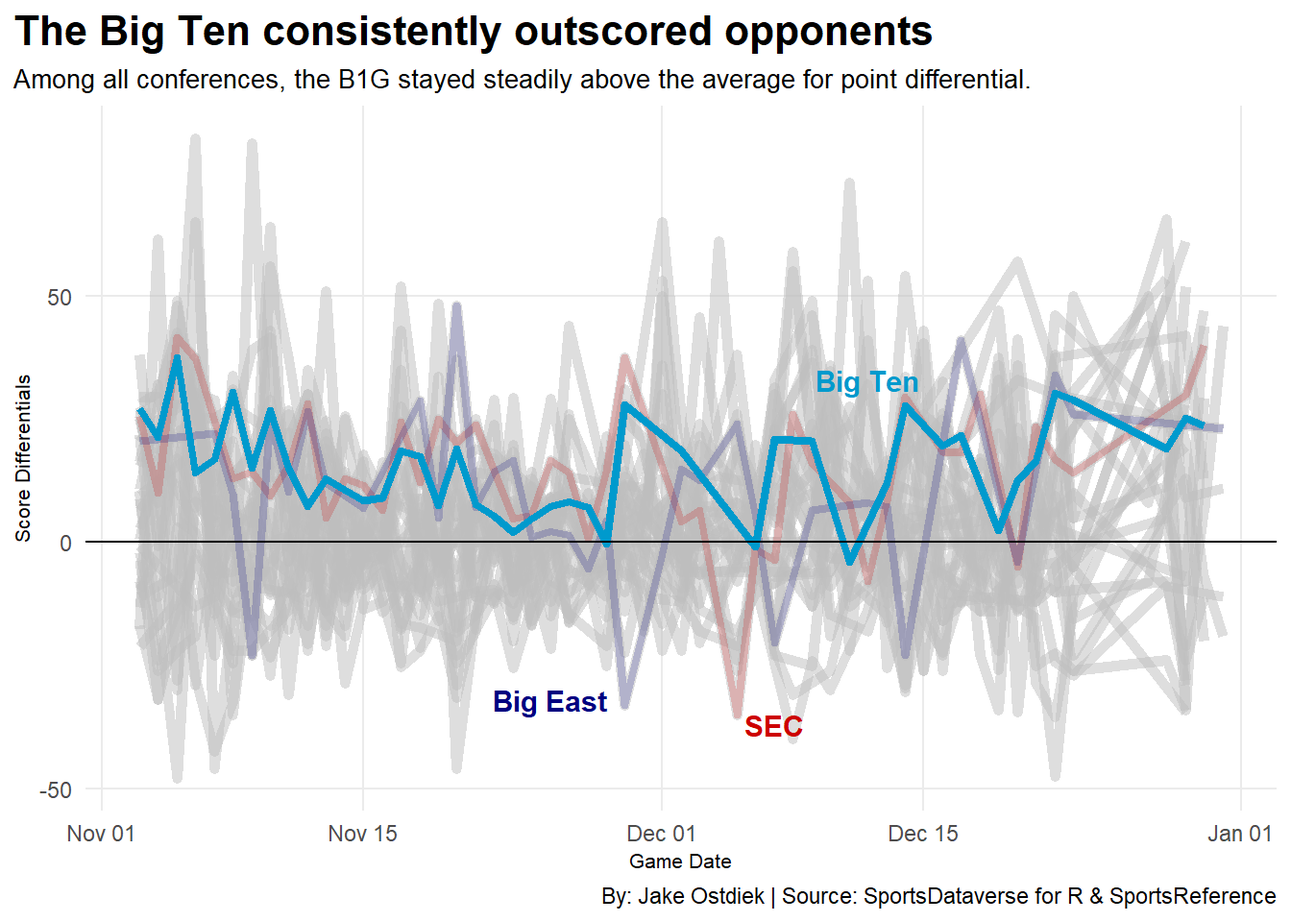
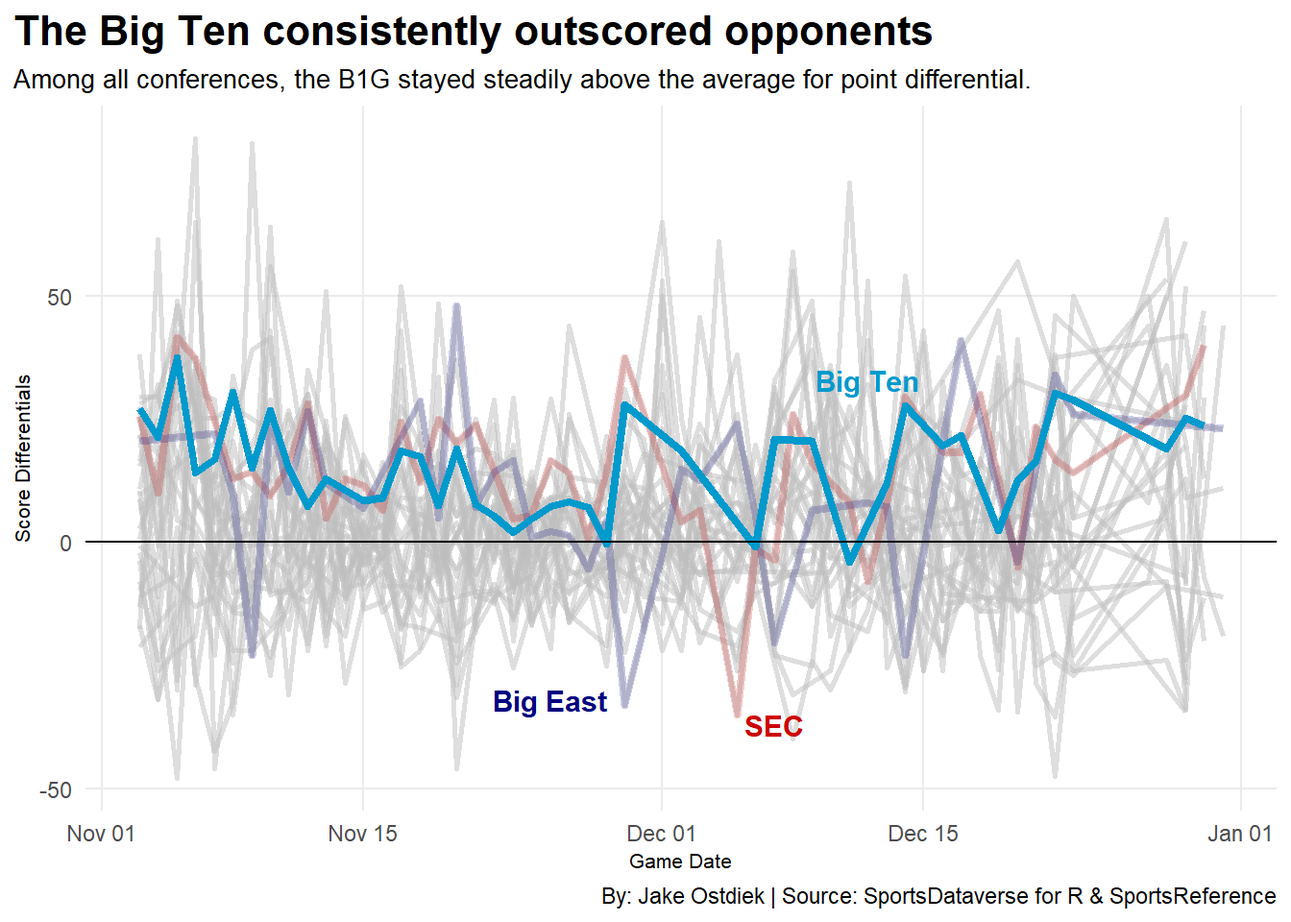
Finishing touches
Added description to chart 2

Changed region(s): [[0.0938, 0.1562, 0.9688, 0.8438]]

diff --git a/posts/big-ten-basketball-success-2026/index.html b/posts/big-ten-basketball-success-2026/index.html
@@ -9,7 +9,7 @@
 <meta name="author" content="Jake Ostdiek">
 <meta name="dcterms.date" content="2026-04-10">
 
-<title>2026 B1G Basketball Sets a Standard – Sports Stats from the mind of Jake Ostdiek</title>
+<title>2026 Big Ten Basketball Was More than Elite – Sports Stats from the mind of Jake Ostdiek</title>
 <style>
 /* Default styles provided by pandoc.
 ** See https://pandoc.org/MANUAL.html#variables-for-html for config info.
@@ -320,7 +320,7 @@ pre > code.sourceCode > span > a:first-child::before { text-decoration: underlin
 <header id="title-block-header" class="quarto-title-block default page-columns page-full">
   <div class="quarto-title-banner page-columns page-full">
     <div class="quarto-title column-body">
-      <h1 class="title">2026 B1G Basketball Sets a Standard</h1>
+      <h1 class="title">2026 Big Ten Basketball Was More than Elite</h1>
                                 <div class="quarto-categories">
                 <div class="quarto-category">ncaa</div>
                 <div class="quarto-category">basketball</div>
@@ -362,8 +362,8 @@ pre > code.sourceCode > span > a:first-child::before { text-decoration: underlin
 
 
 
-<p>Every March the same debate dominates the college sports scene, which conference is truly the best? The Big 12 consistently has a gauntlet of a regular season, and the SEC prides itself on having top tier athletes, but these narritives don’t win championships. When you take away the loud, often misleading, voices and take a look at the numbers from the 2025-2026 season, reality shows its true colors. The Big Ten didn’t just participate in this historic season, they dominated it.</p>
-<p>The B1G set a completely new standard this year, proving they were better than the SEC, the Big 12, and everyone else contending for the title.</p>
+<p>Every March the same debate dominates the college sports scene, which conference is truly the best? The Big 12 consistently has a gauntlet of a regular season, and the SEC prides itself on having top tier athletes, but these narratives don’t win championships. When you take away the loud, often misleading, voices and take a look at the numbers from the 2025-2026 season, reality shows its true colors. The Big Ten didn’t just participate in this historic season, they dominated it.</p>
+<p>The Big Ten set a completely new standard this year, proving they were better than the SEC, the Big 12, and everyone else contending for the title.</p>
 <p>The Non-Conference Start: Winning by Margins</p>
 <div class="cell">
 <details class="code-fold">
@@ -430,7 +430,7 @@ pre > code.sourceCode > span > a:first-child::before { text-decoration: underlin
 <span id="cb1-60"><a href="#cb1-60" aria-hidden="true" tabindex="-1"></a>    <span class="fu">aes</span>(<span class="at">x =</span> date_of_game, <span class="at">y =</span> avg_score_diff, <span class="at">group =</span> Conf),</span>
 <span id="cb1-61"><a href="#cb1-61" aria-hidden="true" tabindex="-1"></a>    <span class="at">color =</span> <span class="st">"grey"</span>,</span>
 <span id="cb1-62"><a href="#cb1-62" aria-hidden="true" tabindex="-1"></a>    <span class="at">alpha =</span> <span class="fl">0.5</span>,</span>
-<span id="cb1-63"><a href="#cb1-63" aria-hidden="true" tabindex="-1"></a>    <span class="at">linewidth =</span> <span class="dv">2</span>) <span class="sc">+</span></span>
+<span id="cb1-63"><a href="#cb1-63" aria-hidden="true" tabindex="-1"></a>    <span class="at">linewidth =</span> <span class="dv">1</span>) <span class="sc">+</span></span>
 <span id="cb1-64"><a href="#cb1-64" aria-hidden="true" tabindex="-1"></a>  <span class="fu">geom_line</span>(</span>
 <span id="cb1-65"><a href="#cb1-65" aria-hidden="true" tabindex="-1"></a>    <span class="at">data =</span> chart1_data_sec,</span>
 <span id="cb1-66"><a href="#cb1-66" aria-hidden="true" tabindex="-1"></a>    <span class="fu">aes</span>(<span class="at">x =</span> date_of_game, <span class="at">y =</span> avg_score_diff, <span class="at">group =</span> Conf),</span>
@@ -484,7 +484,7 @@ pre > code.sourceCode > span > a:first-child::before { text-decoration: underlin
 </div>
 <p>To find the true strength of a conference, you have to first look at the non-conference competition that starts off every season. As soon as January hits, conference rivals go at it, dragging down overall conference metrics. But in the non-conference slate? That is where you see what each conference is really made of.</p>
 <p>When we look at all games played before January 1st, 2026 (Average start date for conference games), the Big Ten teases its dominance.</p>
-<p>The data reveals a consistent trend - The Big Ten wasn’t just winning games, they were dismantling defenses and locking down offenses. Looking at the average scoring differentials, the B1G separated itself from the pack early. While other conferences hovered near the baseline of “just okay”, the Big Ten consistently was outscoring their opponents by significant margins. This established a level of dominance before conference play was even a worry.</p>
+<p>The data reveals a consistent trend - The Big Ten wasn’t just winning games, they were dismantling defenses and locking down offenses. Looking at the average scoring differentials, the Big Ten separated itself from the pack early. While other conferences hovered near the baseline of “just okay”, the Big Ten consistently was outscoring their opponents by significant margins. This established a level of dominance before conference play was even a worry.</p>
 <p>The Test of Resilience: Strength of Schedule</p>
 <div class="cell">
 <details class="code-fold">
@@ -531,44 +531,51 @@ pre > code.sourceCode > span > a:first-child::before { text-decoration: underlin
 <span id="cb2-40"><a href="#cb2-40" aria-hidden="true" tabindex="-1"></a>    <span class="at">data =</span> chart2_data_sec,</span>
 <span id="cb2-41"><a href="#cb2-41" aria-hidden="true" tabindex="-1"></a>    <span class="fu">aes</span>(<span class="at">x =</span> avg_conf_sos, <span class="at">y =</span> <span class="fu">reorder</span>(Conf, avg_conf_sos), <span class="at">size =</span> num_teams),</span>
 <span id="cb2-42"><a href="#cb2-42" aria-hidden="true" tabindex="-1"></a>    <span class="at">color =</span> <span class="st">"red3"</span>,</span>
-<span id="cb2-43"><a href="#cb2-43" aria-hidden="true" tabindex="-1"></a>    <span class="at">alpha =</span> <span class="fl">0.8</span>) <span class="sc">+</span></span>
+<span id="cb2-43"><a href="#cb2-43" aria-hidden="true" tabindex="-1"></a>    <span class="at">alpha =</span> <span class="fl">0.3</span>) <span class="sc">+</span></span>
 <span id="cb2-44"><a href="#cb2-44" aria-hidden="true" tabindex="-1"></a>  <span class="fu">geom_point</span>(</span>
 <span id="cb2-45"><a href="#cb2-45" aria-hidden="true" tabindex="-1"></a>    <span class="at">data =</span> chart2_data_bigeast,</span>
 <span id="cb2-46"><a href="#cb2-46" aria-hidden="true" tabindex="-1"></a>    <span class="fu">aes</span>(<span class="at">x =</span> avg_conf_sos, <span class="at">y =</span> <span class="fu">reorder</span>(Conf, avg_conf_sos), <span class="at">size =</span> num_teams),</span>
 <span id="cb2-47"><a href="#cb2-47" aria-hidden="true" tabindex="-1"></a>    <span class="at">color =</span> <span class="st">"navy"</span>,</span>
-<span id="cb2-48"><a href="#cb2-48" aria-hidden="true" tabindex="-1"></a>    <span class="at">alpha =</span> <span class="fl">0.8</span>) <span class="sc">+</span></span>
+<span id="cb2-48"><a href="#cb2-48" aria-hidden="true" tabindex="-1"></a>    <span class="at">alpha =</span> <span class="fl">0.3</span>) <span class="sc">+</span></span>
 <span id="cb2-49"><a href="#cb2-49" aria-hidden="true" tabindex="-1"></a>  <span class="fu">geom_point</span>(</span>
-<span id="cb2-50"><a href="#cb2-50" aria-hidden="true" tabindex="-1"></a>    <span class="at">data=</span>chart2_data_bigten,</span>
+<span id="cb2-50"><a href="#cb2-50" aria-hidden="true" tabindex="-1"></a>    <span class="at">data =</span> chart2_data_bigten,</span>
 <span id="cb2-51"><a href="#cb2-51" aria-hidden="true" tabindex="-1"></a>    <span class="fu">aes</span>(<span class="at">x =</span> avg_conf_sos, <span class="at">y =</span> <span class="fu">reorder</span>(Conf, avg_conf_sos), <span class="at">size =</span> num_teams),</span>
-<span id="cb2-52"><a href="#cb2-52" aria-hidden="true" tabindex="-1"></a>    <span class="at">color=</span><span class="st">"deepskyblue3"</span>) <span class="sc">+</span></span>
-<span id="cb2-53"><a href="#cb2-53" aria-hidden="true" tabindex="-1"></a>  <span class="fu">scale_size_continuous</span>(<span class="at">range =</span> <span class="fu">c</span>(<span class="dv">5</span>, <span class="dv">10</span>)) <span class="sc">+</span></span>
-<span id="cb2-54"><a href="#cb2-54" aria-hidden="true" tabindex="-1"></a>  <span class="fu">geom_text_repel</span>(</span>
-<span id="cb2-55"><a href="#cb2-55" aria-hidden="true" tabindex="-1"></a>    <span class="at">data=</span>chart2_data,</span>
-<span id="cb2-56"><a href="#cb2-56" aria-hidden="true" tabindex="-1"></a>    <span class="fu">aes</span>(<span class="at">x =</span> avg_conf_sos, <span class="at">y =</span> <span class="fu">reorder</span>(Conf, avg_conf_sos), <span class="at">label =</span> Conf),</span>
-<span id="cb2-57"><a href="#cb2-57" aria-hidden="true" tabindex="-1"></a>    <span class="at">color =</span> <span class="st">"black"</span>,</span>
-<span id="cb2-58"><a href="#cb2-58" aria-hidden="true" tabindex="-1"></a>    <span class="at">hjust =</span> <span class="dv">0</span>) <span class="sc">+</span></span>
-<span id="cb2-59"><a href="#cb2-59" aria-hidden="true" tabindex="-1"></a>  <span class="fu">annotate</span>(<span class="st">"rect"</span>, <span class="at">fill=</span><span class="st">"blue"</span>, <span class="at">alpha=</span><span class="fl">0.1</span>,</span>
-<span id="cb2-60"><a href="#cb2-60" aria-hidden="true" tabindex="-1"></a>           <span class="at">xmin=</span><span class="fl">8.5</span>, <span class="at">xmax=</span><span class="cn">Inf</span>,</span>
-<span id="cb2-61"><a href="#cb2-61" aria-hidden="true" tabindex="-1"></a>           <span class="at">ymin=</span><span class="dv">5</span>, <span class="at">ymax=</span><span class="cn">Inf</span>) <span class="sc">+</span></span>
-<span id="cb2-62"><a href="#cb2-62" aria-hidden="true" tabindex="-1"></a>  <span class="fu">theme_minimal</span>() <span class="sc">+</span></span>
-<span id="cb2-63"><a href="#cb2-63" aria-hidden="true" tabindex="-1"></a>  <span class="fu">geom_text</span>(</span>
-<span id="cb2-64"><a href="#cb2-64" aria-hidden="true" tabindex="-1"></a>    <span class="fu">aes</span>(<span class="at">x=</span><span class="fl">9.5</span>, <span class="at">y=</span><span class="fl">9.7</span>, <span class="at">label=</span><span class="st">"Tough Schedules"</span>), <span class="at">size=</span><span class="dv">5</span>) <span class="sc">+</span></span>
-<span id="cb2-65"><a href="#cb2-65" aria-hidden="true" tabindex="-1"></a>  <span class="fu">labs</span>(</span>
-<span id="cb2-66"><a href="#cb2-66" aria-hidden="true" tabindex="-1"></a>    <span class="at">title=</span><span class="st">"The Big Ten dominated with a gauntlet of schedules"</span>,</span>
-<span id="cb2-67"><a href="#cb2-67" aria-hidden="true" tabindex="-1"></a>    <span class="at">subtitle=</span><span class="st">"The B1G had the toughest journey to the postseason. Size of point represents size of conference."</span>,</span>
-<span id="cb2-68"><a href="#cb2-68" aria-hidden="true" tabindex="-1"></a>    <span class="at">x=</span><span class="st">"Average Strength of Schedule (SOS)"</span>,</span>
-<span id="cb2-69"><a href="#cb2-69" aria-hidden="true" tabindex="-1"></a>    <span class="at">y=</span><span class="st">""</span>,</span>
-<span id="cb2-70"><a href="#cb2-70" aria-hidden="true" tabindex="-1"></a>    <span class="at">caption =</span> <span class="st">"By: Jake Ostdiek | Source: SportsDataverse for R &amp; SportsReference"</span></span>
-<span id="cb2-71"><a href="#cb2-71" aria-hidden="true" tabindex="-1"></a>  ) <span class="sc">+</span></span>
-<span id="cb2-72"><a href="#cb2-72" aria-hidden="true" tabindex="-1"></a>  <span class="fu">theme</span>(</span>
-<span id="cb2-73"><a href="#cb2-73" aria-hidden="true" tabindex="-1"></a>    <span class="at">plot.title =</span> <span class="fu">element_text</span>(<span class="at">size =</span> <span class="dv">16</span>, <span class="at">face =</span> <span class="st">"bold"</span>),</span>
-<span id="cb2-74"><a href="#cb2-74" aria-hidden="true" tabindex="-1"></a>    <span class="at">axis.title =</span> <span class="fu">element_text</span>(<span class="at">size =</span> <span class="dv">8</span>),</span>
-<span id="cb2-75"><a href="#cb2-75" aria-hidden="true" tabindex="-1"></a>    <span class="at">plot.subtitle =</span> <span class="fu">element_text</span>(<span class="at">size =</span> <span class="dv">10</span>),</span>
-<span id="cb2-76"><a href="#cb2-76" aria-hidden="true" tabindex="-1"></a>    <span class="at">panel.grid.minor =</span> <span class="fu">element_blank</span>(),</span>
-<span id="cb2-77"><a href="#cb2-77" aria-hidden="true" tabindex="-1"></a>    <span class="at">plot.title.position =</span> <span class="st">"plot"</span>,</span>
-<span id="cb2-78"><a href="#cb2-78" aria-hidden="true" tabindex="-1"></a>    <span class="at">legend.position =</span> <span class="st">"none"</span>,</span>
-<span id="cb2-79"><a href="#cb2-79" aria-hidden="true" tabindex="-1"></a>    <span class="at">axis.text.y =</span> <span class="fu">element_blank</span>()</span>
-<span id="cb2-80"><a href="#cb2-80" aria-hidden="true" tabindex="-1"></a>  )</span></code></pre></div><button title="Copy to Clipboard" class="code-copy-button"><i class="bi"></i></button></div>
+<span id="cb2-52"><a href="#cb2-52" aria-hidden="true" tabindex="-1"></a>    <span class="at">color=</span><span class="st">"deepskyblue3"</span>,</span>
+<span id="cb2-53"><a href="#cb2-53" aria-hidden="true" tabindex="-1"></a>    <span class="at">alpha =</span> <span class="fl">0.3</span>) <span class="sc">+</span></span>
+<span id="cb2-54"><a href="#cb2-54" aria-hidden="true" tabindex="-1"></a>  <span class="fu">scale_size_continuous</span>(<span class="at">range =</span> <span class="fu">c</span>(<span class="dv">5</span>, <span class="dv">10</span>)) <span class="sc">+</span></span>
+<span id="cb2-55"><a href="#cb2-55" aria-hidden="true" tabindex="-1"></a>  <span class="fu">scale_x_continuous</span>(<span class="at">breaks =</span> <span class="fu">c</span>(<span class="sc">-</span><span class="dv">1</span>, <span class="dv">0</span>, <span class="dv">2</span>, <span class="dv">4</span>, <span class="dv">6</span>, <span class="dv">8</span>, <span class="dv">10</span>, <span class="dv">12</span>, <span class="dv">13</span>)) <span class="sc">+</span></span>
+<span id="cb2-56"><a href="#cb2-56" aria-hidden="true" tabindex="-1"></a>  <span class="fu">geom_text_repel</span>(</span>
+<span id="cb2-57"><a href="#cb2-57" aria-hidden="true" tabindex="-1"></a>    <span class="at">data=</span>chart2_data,</span>
+<span id="cb2-58"><a href="#cb2-58" aria-hidden="true" tabindex="-1"></a>    <span class="fu">aes</span>(<span class="at">x =</span> avg_conf_sos, <span class="at">y =</span> <span class="fu">reorder</span>(Conf, avg_conf_sos), <span class="at">label =</span> Conf),</span>
+<span id="cb2-59"><a href="#cb2-59" aria-hidden="true" tabindex="-1"></a>    <span class="at">color =</span> <span class="st">"black"</span>,</span>
+<span id="cb2-60"><a href="#cb2-60" aria-hidden="true" tabindex="-1"></a>    <span class="at">hjust =</span> <span class="dv">0</span>) <span class="sc">+</span></span>
+<span id="cb2-61"><a href="#cb2-61" aria-hidden="true" tabindex="-1"></a>  <span class="fu">annotate</span>(<span class="st">"rect"</span>, <span class="at">fill=</span><span class="st">"blue"</span>, <span class="at">alpha=</span><span class="fl">0.1</span>,</span>
+<span id="cb2-62"><a href="#cb2-62" aria-hidden="true" tabindex="-1"></a>           <span class="at">xmin=</span><span class="fl">8.1</span>, <span class="at">xmax=</span><span class="cn">Inf</span>,</span>
+<span id="cb2-63"><a href="#cb2-63" aria-hidden="true" tabindex="-1"></a>           <span class="at">ymin=</span><span class="dv">5</span>, <span class="at">ymax=</span><span class="cn">Inf</span>) <span class="sc">+</span></span>
+<span id="cb2-64"><a href="#cb2-64" aria-hidden="true" tabindex="-1"></a>  <span class="fu">theme_minimal</span>() <span class="sc">+</span></span>
+<span id="cb2-65"><a href="#cb2-65" aria-hidden="true" tabindex="-1"></a>  <span class="fu">geom_text</span>(</span>
+<span id="cb2-66"><a href="#cb2-66" aria-hidden="true" tabindex="-1"></a>    <span class="fu">aes</span>(<span class="at">x=</span><span class="fl">10.7</span>, <span class="at">y=</span><span class="fl">5.8</span>, <span class="at">label=</span><span class="st">"Tough Schedules"</span>), <span class="at">size=</span><span class="dv">3</span>, <span class="at">fontface =</span> <span class="st">"bold"</span>) <span class="sc">+</span></span>
+<span id="cb2-67"><a href="#cb2-67" aria-hidden="true" tabindex="-1"></a>  <span class="fu">geom_text</span>(</span>
+<span id="cb2-68"><a href="#cb2-68" aria-hidden="true" tabindex="-1"></a>    <span class="fu">aes</span>(<span class="at">x=</span><span class="fl">3.3</span>, <span class="at">y=</span><span class="dv">8</span>, <span class="at">label=</span><span class="st">"B1G had the toughest</span><span class="sc">\n</span><span class="st">strength of schedule (11.38)"</span>, <span class="at">size =</span> <span class="dv">4</span>, <span class="at">fontface =</span> <span class="st">"bold"</span>)) <span class="sc">+</span></span>
+<span id="cb2-69"><a href="#cb2-69" aria-hidden="true" tabindex="-1"></a>  <span class="fu">geom_text</span>(</span>
+<span id="cb2-70"><a href="#cb2-70" aria-hidden="true" tabindex="-1"></a>    <span class="fu">aes</span>(<span class="at">x=</span><span class="dv">9</span>, <span class="at">y=</span><span class="dv">3</span>, <span class="at">label=</span><span class="st">"The SEC and Big 12 are close,</span><span class="sc">\n</span><span class="st">but have two fewer schools"</span>, <span class="at">size =</span> <span class="dv">4</span>, <span class="at">fontface =</span> <span class="st">"bold"</span>)) <span class="sc">+</span></span>
+<span id="cb2-71"><a href="#cb2-71" aria-hidden="true" tabindex="-1"></a>  <span class="fu">labs</span>(</span>
+<span id="cb2-72"><a href="#cb2-72" aria-hidden="true" tabindex="-1"></a>    <span class="at">title=</span><span class="st">"The Big Ten dominated with a gauntlet of schedules"</span>,</span>
+<span id="cb2-73"><a href="#cb2-73" aria-hidden="true" tabindex="-1"></a>    <span class="at">subtitle=</span><span class="st">"The B1G had the toughest journey to the postseason. Size of point represents size of conference."</span>,</span>
+<span id="cb2-74"><a href="#cb2-74" aria-hidden="true" tabindex="-1"></a>    <span class="at">x=</span><span class="st">"Average Strength of Schedule (SOS)"</span>,</span>
+<span id="cb2-75"><a href="#cb2-75" aria-hidden="true" tabindex="-1"></a>    <span class="at">y=</span><span class="st">"Conference"</span>,</span>
+<span id="cb2-76"><a href="#cb2-76" aria-hidden="true" tabindex="-1"></a>    <span class="at">caption =</span> <span class="st">"By: Jake Ostdiek | Source: SportsDataverse for R &amp; SportsReference"</span></span>
+<span id="cb2-77"><a href="#cb2-77" aria-hidden="true" tabindex="-1"></a>  ) <span class="sc">+</span></span>
+<span id="cb2-78"><a href="#cb2-78" aria-hidden="true" tabindex="-1"></a>  <span class="fu">theme</span>(</span>
+<span id="cb2-79"><a href="#cb2-79" aria-hidden="true" tabindex="-1"></a>    <span class="at">plot.title =</span> <span class="fu">element_text</span>(<span class="at">size =</span> <span class="dv">16</span>, <span class="at">face =</span> <span class="st">"bold"</span>),</span>
+<span id="cb2-80"><a href="#cb2-80" aria-hidden="true" tabindex="-1"></a>    <span class="at">axis.title =</span> <span class="fu">element_text</span>(<span class="at">size =</span> <span class="dv">8</span>),</span>
+<span id="cb2-81"><a href="#cb2-81" aria-hidden="true" tabindex="-1"></a>    <span class="at">plot.subtitle =</span> <span class="fu">element_text</span>(<span class="at">size =</span> <span class="dv">10</span>),</span>
+<span id="cb2-82"><a href="#cb2-82" aria-hidden="true" tabindex="-1"></a>    <span class="at">panel.grid.minor =</span> <span class="fu">element_blank</span>(),</span>
+<span id="cb2-83"><a href="#cb2-83" aria-hidden="true" tabindex="-1"></a>    <span class="at">plot.title.position =</span> <span class="st">"plot"</span>,</span>
+<span id="cb2-84"><a href="#cb2-84" aria-hidden="true" tabindex="-1"></a>    <span class="at">legend.position =</span> <span class="st">"none"</span>,</span>
+<span id="cb2-85"><a href="#cb2-85" aria-hidden="true" tabindex="-1"></a>    <span class="at">axis.text.y =</span> <span class="fu">element_blank</span>(),</span>
+<span id="cb2-86"><a href="#cb2-86" aria-hidden="true" tabindex="-1"></a>    <span class="at">panel.grid.major.y =</span> <span class="fu">element_blank</span>()</span>
+<span id="cb2-87"><a href="#cb2-87" aria-hidden="true" tabindex="-1"></a>  )</span></code></pre></div><button title="Copy to Clipboard" class="code-copy-button"><i class="bi"></i></button></div>
 </details>
 <div class="cell-output-display">
 <div>
@@ -581,8 +588,9 @@ pre > code.sourceCode > span > a:first-child::before { text-decoration: underlin
 <p>The immediate counterargument for non-conference blowouts usually sounds like this, “Oh yeah, name one tough opponent you’ve played.” That’s fair to ask of someone prideful in their conference. Padding the stat sheet against mid-majors before the new year has become something of a college basketball tradition.</p>
 <p>But the Big Ten wasn’t hiding from anyone.</p>
 <p>When mapping the average Strength of Schedule (SOS) across the top conferences, the Big Ten stands its ground at the top. They didn’t just rack up high point differentials against non-conference teams, they did it against the toughest competition in the country as well. This wasn’t the product of a few outstanding teams carrying the rest of the conference either. From top to bottom, the conference was ruthless, ensuring any team that came out of the Big Ten regular season was battle-tested and ready for a fight.</p>
+<p>The SEC and Big 12 would argue they are right up there with the Big Ten, but in reality, those two conferences both have 16 teams while the Big Ten has 18. With two additional teams, a strong average strength of schedule becomes even tougher to maintain. More teams leads to more competition, and where some conferences struggle with their level of competition, the Big Ten took it in stride to continue elevating their performance.</p>
 <p>Regular season metrics are great, but the NCAA Tournament is a lie detector test disguised as college basketball tournament. If a conference is truly the best, it has to be able to continue their regular-season hype into reaffirming tournament success.</p>
-<p>To measure this, we don’t justlook at how many bids a conference received, we look at efficiency. How successfully did a conference’s total number of teams survive from round to round?</p>
+<p>To measure this, we don’t just look at how many bids a conference received, we look at efficiency. How successfully did a conference’s total number of teams survive from round to round?</p>
 <p>The Ultimate Test: March Madness</p>
 <div class="cell">
 <details class="code-fold">
@@ -713,7 +721,7 @@ pre > code.sourceCode > span > a:first-child::before { text-decoration: underlin
 <span id="cb3-124"><a href="#cb3-124" aria-hidden="true" tabindex="-1"></a>  <span class="fu">theme_minimal</span>() <span class="sc">+</span></span>
 <span id="cb3-125"><a href="#cb3-125" aria-hidden="true" tabindex="-1"></a>  <span class="fu">labs</span>(</span>
 <span id="cb3-126"><a href="#cb3-126" aria-hidden="true" tabindex="-1"></a>    <span class="at">title =</span> <span class="st">"Round of 64 to Round of 32"</span>,</span>
-<span id="cb3-127"><a href="#cb3-127" aria-hidden="true" tabindex="-1"></a>    <span class="at">x =</span> <span class="st">"Number of Teams Advanced"</span>,</span>
+<span id="cb3-127"><a href="#cb3-127" aria-hidden="true" tabindex="-1"></a>    <span class="at">x =</span> <span class="st">"# of Teams Advanced"</span>,</span>
 <span id="cb3-128"><a href="#cb3-128" aria-hidden="true" tabindex="-1"></a>    <span class="at">y =</span> <span class="st">""</span>) <span class="sc">+</span></span>
 <span id="cb3-129"><a href="#cb3-129" aria-hidden="true" tabindex="-1"></a>  <span class="fu">theme</span>(</span>
 <span id="cb3-130"><a href="#cb3-130" aria-hidden="true" tabindex="-1"></a>    <span class="at">panel.grid.major.y =</span> <span class="fu">element_blank</span>(),</span>
@@ -739,7 +747,7 @@ pre > code.sourceCode > span > a:first-child::before { text-decoration: underlin
 <span id="cb3-150"><a href="#cb3-150" aria-hidden="true" tabindex="-1"></a>  <span class="fu">theme_minimal</span>() <span class="sc">+</span></span>
 <span id="cb3-151"><a href="#cb3-151" aria-hidden="true" tabindex="-1"></a>  <span class="fu">labs</span>(</span>
 <span id="cb3-152"><a href="#cb3-152" aria-hidden="true" tabindex="-1"></a>    <span class="at">title =</span> <span class="st">"Round of 32 to Sweet 16"</span>,</span>
-<span id="cb3-153"><a href="#cb3-153" aria-hidden="true" tabindex="-1"></a>    <span class="at">x =</span> <span class="st">"Number of Teams Advanced"</span>,</span>
+<span id="cb3-153"><a href="#cb3-153" aria-hidden="true" tabindex="-1"></a>    <span class="at">x =</span> <span class="st">"# of Teams Advanced"</span>,</span>
 <span id="cb3-154"><a href="#cb3-154" aria-hidden="true" tabindex="-1"></a>    <span class="at">y =</span> <span class="st">""</span>) <span class="sc">+</span></span>
 <span id="cb3-155"><a href="#cb3-155" aria-hidden="true" tabindex="-1"></a>  <span class="fu">theme</span>(</span>
 <span id="cb3-156"><a href="#cb3-156" aria-hidden="true" tabindex="-1"></a>    <span class="at">panel.grid.major.y =</span> <span class="fu">element_blank</span>(),</span>
@@ -765,7 +773,7 @@ pre > code.sourceCode > span > a:first-child::before { text-decoration: underlin
 <span id="cb3-176"><a href="#cb3-176" aria-hidden="true" tabindex="-1"></a>  <span class="fu">theme_minimal</span>() <span class="sc">+</span></span>
 <span id="cb3-177"><a href="#cb3-177" aria-hidden="true" tabindex="-1"></a>  <span class="fu">labs</span>(</span>
 <span id="cb3-178"><a href="#cb3-178" aria-hidden="true" tabindex="-1"></a>    <span class="at">title =</span> <span class="st">"Sweet 16 to Elite Eight"</span>,</span>
-<span id="cb3-179"><a href="#cb3-179" aria-hidden="true" tabindex="-1"></a>    <span class="at">x =</span> <span class="st">"Number of Teams Advanced"</span>,</span>
+<span id="cb3-179"><a href="#cb3-179" aria-hidden="true" tabindex="-1"></a>    <span class="at">x =</span> <span class="st">"# of Teams Advanced"</span>,</span>
 <span id="cb3-180"><a href="#cb3-180" aria-hidden="true" tabindex="-1"></a>    <span class="at">y =</span> <span class="st">""</span>) <span class="sc">+</span></span>
 <span id="cb3-181"><a href="#cb3-181" aria-hidden="true" tabindex="-1"></a>  <span class="fu">theme</span>(</span>
 <span id="cb3-182"><a href="#cb3-182" aria-hidden="true" tabindex="-1"></a>    <span class="at">panel.grid.major.y =</span> <span class="fu">element_blank</span>(),</span>
@@ -792,7 +800,7 @@ pre > code.sourceCode > span > a:first-child::before { text-decoration: underlin
 <span id="cb3-203"><a href="#cb3-203" aria-hidden="true" tabindex="-1"></a>  <span class="fu">theme_minimal</span>() <span class="sc">+</span></span>
 <span id="cb3-204"><a href="#cb3-204" aria-hidden="true" tabindex="-1"></a>  <span class="fu">labs</span>(</span>
 <span id="cb3-205"><a href="#cb3-205" aria-hidden="true" tabindex="-1"></a>    <span class="at">title =</span> <span class="st">"Elite Eight to Final Four"</span>,</span>
-<span id="cb3-206"><a href="#cb3-206" aria-hidden="true" tabindex="-1"></a>    <span class="at">x =</span> <span class="st">"Number of Teams Advanced"</span>,</span>
+<span id="cb3-206"><a href="#cb3-206" aria-hidden="true" tabindex="-1"></a>    <span class="at">x =</span> <span class="st">"# of Teams Advanced"</span>,</span>
 <span id="cb3-207"><a href="#cb3-207" aria-hidden="true" tabindex="-1"></a>    <span class="at">y =</span> <span class="st">""</span>) <span class="sc">+</span></span>
 <span id="cb3-208"><a href="#cb3-208" aria-hidden="true" tabindex="-1"></a>  <span class="fu">theme</span>(</span>
 <span id="cb3-209"><a href="#cb3-209" aria-hidden="true" tabindex="-1"></a>    <span class="at">panel.grid.major.y =</span> <span class="fu">element_blank</span>(),</span>
@@ -817,9 +825,9 @@ pre > code.sourceCode > span > a:first-child::before { text-decoration: underlin
 </div>
 </div>
 <p>The conversion rates and number of teams advanced tells the final, undeniable piece of the story. While the SEC, Big 12 and others saw their representation fall off in the opening weekend, the Big Ten stayed true to what they knew, and won. From the Round of 64 to the Sweet 16, the Big Ten advanced 66.67% of their teams successfully while the SEC advanced 40% and the Big 12 advanced 37.5%. The Big Ten added a cherry on top and broke a conference record for number of teams that advanced to the Sweet 16, with 6 teams advancing (previously 4).</p>
-<p>The success doesn’t stop there. From the Sweet 16 to the Elite Eight, the Big Ten was the only conference to advance more than one team to the Elite Eight, and they advanced four, breaking yet another conference record for number of teams in the Elite Eight (previously three). The high percentage of B1G teams surviving the early rounds of chaos proves that their regular season metrics weren’t by chance. They were prepared for the battlefield that is March Madness because their entire season trained to show up when it mattered most.</p>
+<p>The success doesn’t stop there. From the Sweet 16 to the Elite Eight, the Big Ten was the only conference to advance more than one team to the Elite Eight, and they advanced four, breaking yet another conference record for number of teams in the Elite Eight (previously three). The high percentage of Big Ten teams surviving the early rounds of chaos proves that their regular season metrics weren’t by chance. They were prepared for the battlefield that is March Madness because their entire season trained to show up when it mattered most.</p>
 <p>The Big Ten’s Final Statement: The Championship</p>
-<p>You can have the best point differentials and the highest SOS, but without a banner to raise, the argument quickly falls apart. The Big Ten answered that with a exclamation point, with Michigan ultimately cutting down the nets to win it all.</p>
+<p>You can have the best point differentials and the highest SOS, but without a banner to raise, the argument quickly falls apart. The Big Ten answered that with an exclamation point, with Michigan ultimately cutting down the nets to win it all.</p>
 <p>The 2025-2026 season wasn’t up to debate. From the opening tip-off of the non-conference schedule to the final buzzer of the National Championship game, the data tells the exact same story basketball enjoyers watched all season. The Big Ten is the king of college basketball.</p>
 
 

diff --git a/index.html b/index.html
@@ -376,7 +376,7 @@ window.Quarto = {
 
 <div class="quarto-listing quarto-listing-container-default" id="listing-listing">
 <div class="list quarto-listing-default">
-<div class="quarto-post image-right" data-index="0" data-categories="bmNhYSUyQ2Jhc2tldGJhbGwlMkNiaWd0ZW4=" data-listing-date-sort="1775797200000" data-listing-file-modified-sort="1775773842597" data-listing-date-modified-sort="NaN" data-listing-reading-time-sort="15" data-listing-word-count-sort="2873">
+<div class="quarto-post image-right" data-index="0" data-categories="bmNhYSUyQ2Jhc2tldGJhbGwlMkNiaWd0ZW4=" data-listing-date-sort="1775797200000" data-listing-file-modified-sort="1775783575874" data-listing-date-modified-sort="NaN" data-listing-reading-time-sort="16" data-listing-word-count-sort="3027">
 <div class="thumbnail"><a href="./posts/big-ten-basketball-success-2026/index.html" class="no-external">
 
 <img loading="lazy" src="./posts/big-ten-basketball-success-2026/image.png" class="thumbnail-image">
@@ -384,7 +384,7 @@ window.Quarto = {
 </a></div>
 <div class="body">
 <h3 class="no-anchor listing-title">
-<a href="./posts/big-ten-basketball-success-2026/index.html" class="no-external">2026 B1G Basketball Sets a Standard</a>
+<a href="./posts/big-ten-basketball-success-2026/index.html" class="no-external">2026 Big Ten Basketball Was More than Elite</a>
 </h3>
 <div class="listing-categories">
 
